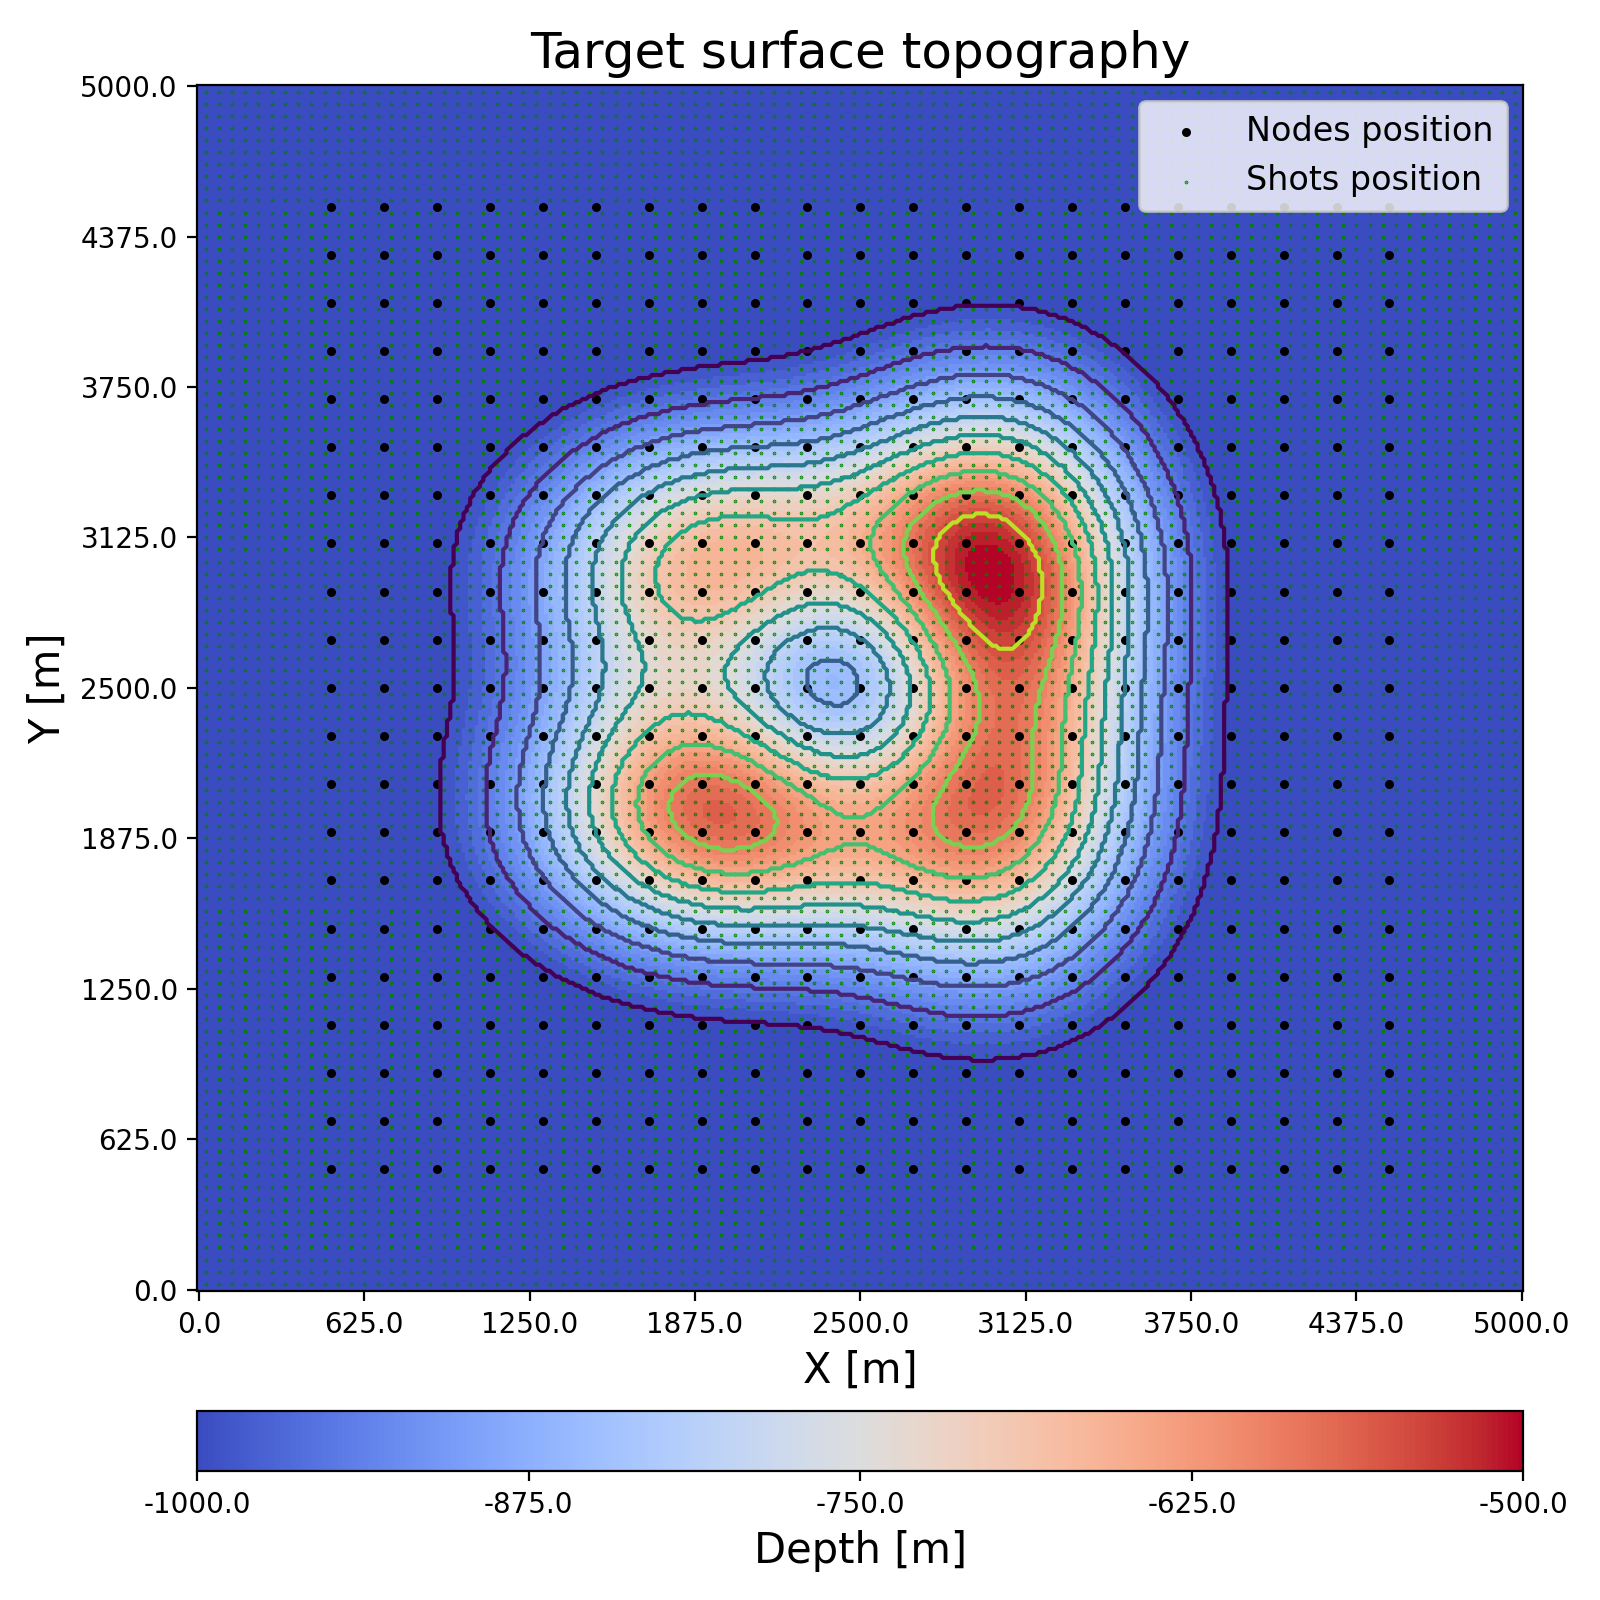
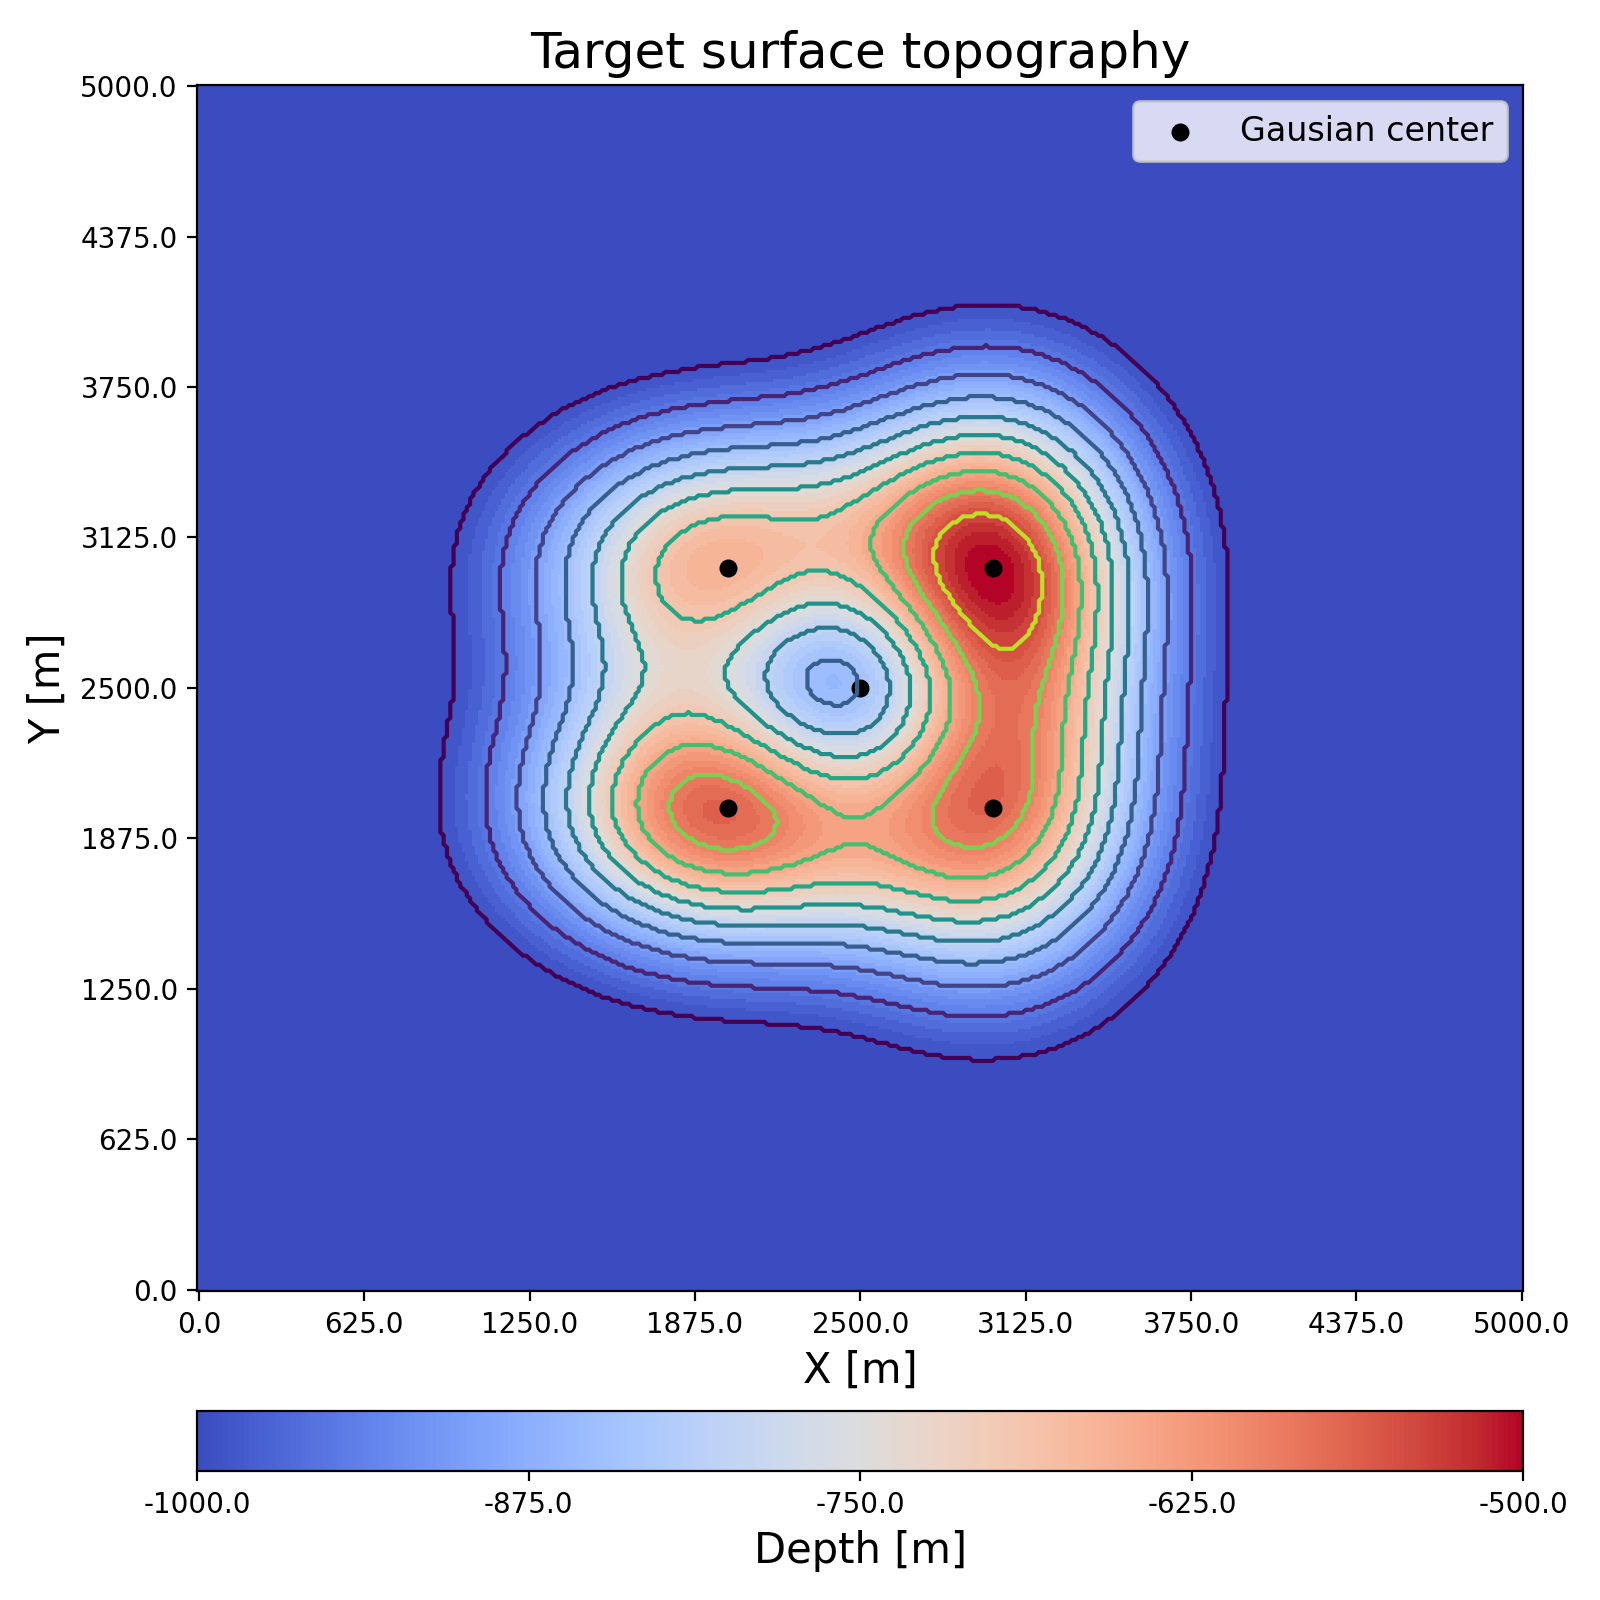
next steps, generate a new inversion to improve m

diff --git a/main/analysis/all_functions.py b/main/analysis/all_functions.py
@@ -2,9 +2,6 @@ import numpy as np
 import matplotlib as mpl
 import matplotlib.pyplot as plt
 
-from math import erf
-from scipy.linalg import inv, solve, norm
-
 from matplotlib import patches
 from mpl_toolkits.axes_grid1 import make_axes_locatable
 
@@ -32,122 +29,6 @@ def analyticalRefraction(v,z,x):
             t_refrac[i,:] += 2*z[j]*np.cos(a_c)/v[j]
 
     return t_direct, t_refrac
-
-def fullBoxPlot(model, dh, shots, nodes, slices, xzRay, eikonal, colorbarFix = 1.5):
-    
-    xyModel = model[slices[2],:,:].T
-    zxModel = model[:,:,slices[0]]
-    zyModel = model[:,slices[1],:].T
-
-    xyEikonal = eikonal[slices[2],:,:].T
-    zxEikonal = eikonal[:,:,slices[0]]
-    zyEikonal = eikonal[:,slices[1],:].T
-
-    ticks = np.array([3,9,3], dtype = int)
-
-    #------------------------------------------------
-    axis = np.array(np.shape(model))
-    [nz,nx,ny] = axis
-    [z, x, y] = axis * 0.6 / np.max(axis)
-
-    vmin = np.min(model)
-    vmax = np.max(model)
-
-    px = 1/plt.rcParams['figure.dpi']  
-    fig = plt.figure(1, figsize=(500*px, 200*px))
-
-    xloc = np.linspace(0,nx,ticks[1], dtype = int)
-    yloc = np.linspace(0,ny,ticks[2], dtype = int)
-    zloc = np.linspace(0,nz,ticks[0], dtype = int)
-
-    xlab = np.around(xloc * dh[1] / 1000, decimals = 1)
-    ylab = np.around(yloc * dh[2] / 1000, decimals = 1)
-    zlab = np.around(zloc * dh[0] / 1000, decimals = 1)
-
-    #------------------------------------------------
-    ax1 = fig.add_axes([0.7 - x, 0.95 - y, 0 + x, 0 + y])
-    ax1.contour(xyEikonal, levels = 10, cmap = "seismic")
-    ax1.imshow(xyModel, aspect = 'auto', cmap = "Greys", vmin = vmin, vmax = vmax)
-    ax1.tick_params(direction = 'in', axis='x') 
-    ax1.tick_params(direction = 'out', axis='y') 
-    ax1.set_xticklabels([])
-
-    ax1.plot(np.arange(axis[1]), np.ones(axis[1])*slices[2], "--g", alpha = 0.3)
-    ax1.plot(np.ones(axis[2])*slices[1], np.arange(axis[2]), "--m", alpha = 0.3)
-
-    ax1.scatter(shots[0]/dh[0], shots[1]/dh[1])
-    ax1.scatter(nodes[:,0]/dh[0], nodes[:,1]/dh[1])
-
-    ax1.set_xticks(xloc)
-    ax1.set_yticks(yloc[1:])
-    ax1.set_yticklabels(ylab[1:])
-
-    ax1.grid(color='w', linestyle='--', linewidth=0.3)
-
-    ax1.set_ylabel("Y [km]")
-    ax1.invert_yaxis()
-
-    #------------------------------------------------
-    ax2 = fig.add_axes([0.7, 0.95 - y, 0 + z, 0 + y])
-    ax2.contour(zyEikonal, levels = 10, cmap = "seismic")
-    ax2.imshow(zyModel, aspect = 'auto', cmap = "Greys", vmin = vmin, vmax = vmax)
-    ax2.tick_params(direction = 'out', axis='x') 
-    ax2.tick_params(direction = 'in', axis='y') 
-    ax2.set_yticklabels([])
-
-    ax2.set_xlabel("Z [km]")
-
-    ax2.plot(np.arange(axis[0]), np.ones(axis[0])*slices[2], "--g", alpha = 0.3)
-    ax2.plot(np.ones(axis[2])*slices[0], np.arange(axis[2]), "--r", alpha = 0.3)
-
-    ax2.scatter(shots[2]/dh[2], shots[1]/dh[1])
-    ax2.scatter(nodes[:,2]/dh[2], nodes[:,1]/dh[1])
-
-    ax2.set_yticks(yloc)
-
-    ax2.set_xticks(zloc[1:])
-    ax2.set_xticklabels(zlab[1:])
-
-    ax2.grid(color = 'w', linestyle = '--', linewidth = 0.3)
-
-    #------------------------------------------------
-    ax3 = fig.add_axes([0.7 - x, 0.95 - y - z, 0 + x, 0 + z])
-    ax3.contour(zxEikonal, levels = 10, cmap = "seismic")
-    ax3.imshow(zxModel, aspect = 'auto', cmap = "Greys", vmin = vmin, vmax = vmax)
-
-    ax3.plot(np.arange(axis[1]), np.ones(axis[1])*slices[0], "--r", alpha = 0.3)
-    ax3.plot(np.ones(axis[0])*slices[1], np.arange(axis[0]), "--m", alpha = 0.3)
-
-    ax3.scatter(shots[0]/dh[0], shots[2]/dh[2])
-    ax3.scatter(nodes[:,0]/dh[0], nodes[:,2]/dh[2])
-
-    ax3.scatter(xzRay[0,:]/dh[0], xzRay[1,:]/dh[2], s = 0.1, c = "green")
-
-    ax3.set_xticks(xloc)
-    ax3.set_yticks(zloc)
-
-    ax3.set_xticklabels(xlab)
-    ax3.set_yticklabels(zlab)
-
-    ax3.grid(color = 'w', linestyle = '--', linewidth = 0.3)
-
-    ax3.set_xlabel("X [km]")
-    ax3.set_ylabel("Z [km]")
-
-    #------------------------------------------------
-    ax4 = fig.add_axes([0.7 - x, 0.95 - y - colorbarFix*z, 0 + x, 0 + z])
-
-    ax4.axis("off")
-
-    cmap = mpl.colormaps["Greys"]
-    norm = mpl.colors.Normalize(vmin*1e-3, vmax*1e-3)
-    divider = make_axes_locatable(ax4)
-    cax = divider.append_axes("bottom", size="10%", pad=0)
-    cbar = fig.colorbar(mpl.cm.ScalarMappable(norm=norm, cmap=cmap), cax = cax, ticks = np.linspace(vmin*1e-3, vmax*1e-3, 5), orientation = "horizontal")
-    cbar.ax.set_xticklabels(np.around(np.linspace(vmin*1e-3, vmax*1e-3, 5), decimals = 1))
-    cbar.set_label("Velocidade P [km/s]")
-    
-    return None
 
 def buildModel3D(nx,ny,nz,property,z):
 
@@ -195,7 +76,6 @@ def multiBoxPlot(models:np.ndarray, shots:np.ndarray, nodes:np.ndarray, dh:float
     px = 1/plt.rcParams['figure.dpi']  
     ticks = np.array([3,7,7], dtype = int)
 
-    line_shot = int(np.sqrt(len(shots[:,0])))
     line_node = int(np.sqrt(len(nodes[:,0])))
 
     x_nodes = np.reshape(nodes[:,0], [line_node,line_node], order = "F") 
@@ -272,8 +152,8 @@ def multiBoxPlot(models:np.ndarray, shots:np.ndarray, nodes:np.ndarray, dh:float
             xshot = [shots[:,0]/dh, shots[:,2]/dh, shots[:,0]/dh]
             yshot = [shots[:,1]/dh, shots[:,1]/dh, shots[:,2]/dh]
 
-            xnode = [nodes[:,0]/dh, z_nodes[y_target,:]/dh, x_nodes[:,x_target]/dh]
-            ynode = [nodes[:,1]/dh, y_nodes[y_target,:]/dh, z_nodes[:,x_target]/dh]
+            xnode = [nodes[:,0]/dh, z_nodes[:,y_target]/dh, x_nodes[:,x_target]/dh]
+            ynode = [nodes[:,1]/dh, y_nodes[y_target,:]/dh, z_nodes[x_target,:]/dh]
 
             for k, axs in enumerate(axes):
 

diff --git a/main/analysis/2_experiment_config.py b/main/analysis/2_experiment_config.py
@@ -78,8 +78,9 @@ smax = np.max(-dz*waterBottom)
 
 ax.contour(-dz*waterBottom, levels = 10)
 ax.imshow(-dz*waterBottom, aspect = "auto", cmap=cmap)
-ax.scatter(node_x/dx, node_y/dy, c = "black", s = 5.0, label = "Nodes position")
-ax.scatter(shot_x/dx, shot_y/dy, c = "green", s = 0.1, label = "Shots position")
+# ax.scatter(node_x/dx, node_y/dy, c = "black", s = 5.0, label = "Nodes position")
+# ax.scatter(shot_x/dx, shot_y/dy, c = "green", s = 0.1, label = "Shots position")
+ax.scatter(xc/dx, yc/dy, c = "black", s = 30, label = "Gausian center")
 
 ax.set_title("Water bottom topography", fontsize = 18)
 ax.set_xlabel("X [m]", fontsize = 15)
@@ -137,8 +138,9 @@ smax = np.max(-dz*surface)
 
 ax.contour(-dz*surface, levels = 10)
 ax.imshow(-dz*surface, aspect = "auto", cmap=cmap)
-ax.scatter(node_x/dx, node_y/dy, c = "black", s = 5.0, label = "Nodes position")
-ax.scatter(shot_x/dx, shot_y/dy, c = "green", s = 0.1, label = "Shots position")
+# ax.scatter(node_x/dx, node_y/dy, c = "black", s = 5.0, label = "Nodes position")
+# ax.scatter(shot_x/dx, shot_y/dy, c = "green", s = 0.1, label = "Shots position")
+ax.scatter(xc/dx, yc/dy, c = "black", s = 30, label = "Gausian center")
 
 ax.set_xticks(np.linspace(0,nx-1,9, dtype = int))
 ax.set_xticklabels(np.around(np.linspace(0,nx-1,9)*dx, decimals = 1))
